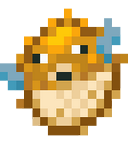
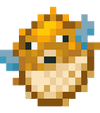
les ennemies avancent, pop quand ils touchent soient le mur soit sonic

diff --git a/main.py b/main.py
@@ -1,8 +1,8 @@
 import pygame
 from pygame.locals import *
 from time import time
-from functions import entity, onFloor, jumpSpeed, jumpPosition, posRestriction
-from random import randint
+from functions import entity, onFloor, jumpSpeed, jumpPosition, posRestriction, enemyRestriction
+from random import randint,uniform
 pygame.init()
 
 #set the window
@@ -23,11 +23,12 @@ sonic3Rect = entity(sonic3Surface.get_rect(topleft=(100,height - 200 - 144)))
 sonic4Surface = pygame.image.load("images/sonic4.gif").convert_alpha()
 sonic4Rect = entity(sonic4Surface.get_rect(topleft=(100,height - 200 - 144)))
 sonicJumpSurface = pygame.image.load("images/sonicJump.png").convert_alpha()
-sonicJumpRect = entity(sonicJumpSurface.get_rect(topleft=(100,height - 200 - 144)))
+sonicJumpRect = entity(sonicJumpSurface.get_rect(topleft=(100,height - 200 - 144*4)))
 sonicState = 0
 #init du delais d'affichage du gif
-delay = time()
+timeGif = time()
 #init du départ du saut
+
 startJump = time()
 #temps de saut
 timeJump = 0.3
@@ -36,6 +37,10 @@ jumping = False
 #rect qui restreint le personnage
 sonicRect = pygame.Rect((100,0), (128,height - 200))
 
+#enemies
+enemySurface = pygame.image.load("images/poisson-globe.png").convert_alpha()
+enemies = []
+timeEnemies = time()
 #score
 scoreTimer = time()
 scoreFont = pygame.font.SysFont("Courier New", 50)
@@ -59,44 +64,68 @@ while playing:
                 if onFloor(sonicJumpRect):
                     startJump = time()
                     jumping = True
-                    jumpSpeed(sonicJumpRect, 1200)
+                    jumpSpeed(sonicJumpRect, (0,1200))
+    delayEnemies = time() - timeEnemies
+    if len(enemies) < 2 and delayEnemies >  uniform(0.9,1.5):
+        randomSpawn = randint(1,6)
+        if randomSpawn == 1:
+            enemies.append(entity(enemySurface.get_rect(topright=(width, height - 200 - 150))))
+        else:
+            enemies.append(entity(enemySurface.get_rect(topright=(width, height - 200))))
+        timeEnemies = time()
+    jumpTime = timer.tick(120) / 1000
     score = int(round((time() - scoreTimer) * 10,0))
-    scoreSurface = scoreFont.render("Score : {0}".format(score), True, (0,0,0))               
+    scoreSurface = scoreFont.render("Score : {0}".format(score), True, (0,0,0))  
     screen.fill((255,255,255))
     screen.blit(endSurface,endRect)
     screen.blit(scoreSurface,scoreRect)
-    jumpTime = timer.tick(120) / 1000
+    for i in range(len(enemies)):
+        try:
+            if enemies[i]['speed'] == (0,0):
+                jumpSpeed(enemies[i],(700,0))
+            jumpPosition(enemies[i], jumpTime)
+            print(sonicJumpRect['rect'])
+            if enemies[i]['rect'].colliderect(sonicJumpRect['rect']):
+                sonic1Rect['hp'] -=1
+                enemies.pop(i)
+            elif enemyRestriction(enemies[i]):
+                enemies.pop(i)
+            screen.blit(enemySurface, enemies[i]['rect'])
+        except:
+            pass
+
     pygame.draw.rect(screen, (0,128,0), (0, height - 200, width, height - 200))
     if time() - startJump < timeJump:
         jumpPosition(sonicJumpRect, jumpTime)
     else:
-        jumpSpeed(sonicJumpRect, -1200)
+        jumpSpeed(sonicJumpRect, (0,-1200))
         startJump = time()
     posRestriction(sonicJumpRect, sonicRect)
-    if sonicJumpRect['speed'] == 0:
+    
+    if sonicJumpRect['speed'][1] == 0:
         jumping = False
     if jumping:
-        sonicJumpRect['speed'] -= 2
+        sonicJumpRect['speed'] = (0,sonicJumpRect['speed'][1] - 12)
         screen.blit(sonicJumpSurface, sonicJumpRect['rect'])
     else:
         #affichage du gif à la main
-        gifDelay = time() - delay
-        if sonicState == 0 and gifDelay > 0.05:
+        delayGif = time() - timeGif
+        if sonicState == 0 and delayGif > 0.05:
             screen.blit(sonic1Surface,sonic1Rect['rect'])
             sonicState = 1
-            delay = time()
-        elif sonicState == 1  and gifDelay > 0.05:
+            timeGif = time()
+        elif sonicState == 1  and delayGif > 0.05:
             screen.blit(sonic2Surface,sonic2Rect['rect'])
             sonicState = 2
-            delay = time()
-        elif sonicState == 2  and gifDelay > 0.05:
+            timeGif = time()
+        elif sonicState == 2  and delayGif > 0.05:
             screen.blit(sonic3Surface,sonic3Rect['rect'])
             sonicState = 3
-            delay = time()
-        elif sonicState == 3 and gifDelay > 0.05:
+            timeGif = time()
+        elif sonicState == 3 and delayGif > 0.05:
             screen.blit(sonic4Surface,sonic4Rect['rect'])
             sonicState = 0
-            delay = time()
+            timeGif = time()
         else:
             choice = randint(1,4)
             if choice == 1:
@@ -111,6 +140,7 @@ while playing:
             else:
                 screen.blit(sonic4Surface,sonic4Rect['rect'])
                 sonicState = 4
+
     pygame.display.flip()
 pygame.quit()
 

diff --git a/functions.py b/functions.py
@@ -8,23 +8,25 @@ width = windowSize[0]
 height = windowSize[1]
 
 def onFloor(entity):
-    #check si position de base de sonic
     return entity['position'][1] == height - 200 - 144
 
 def entity(rect):
     entity={'rect': rect,
-            'speed': 0,
+            'speed': (0,0),
             'position': rect.topleft,
             'hp': 3
             }
     return entity
     
-def jumpSpeed(entity, jump):
-    entity['speed'] += jump
+def jumpSpeed(entity, acceleration):
+    speedX, speedY = entity['speed']
+    aX, aY = acceleration
+    entity['speed'] = (speedX + aX, speedY + aY)
 
 def jumpPosition(entity,time):
-    speedY = entity['speed']
+    speedX, speedY = entity['speed']
     x,y = entity['position']
+    x-= speedX * time
     y-= speedY * time
     entity['position'] = (x,y)
     entity['rect'].bottomleft = entity['position']
@@ -34,8 +36,16 @@ def posRestriction(entity,zone):
     h = entity['rect'].size[1]
     if y + h > zone.bottom:
         y = zone.bottom - h
-        entity['speed'] = 0
+        entity['speed'] = (0,0)
     entity['position'] = (x,y)
     entity['rect'].topleft = entity['position']
+
+def enemyRestriction(entity):
+    x,y = entity['position']
+    w = entity['rect'].size[0]
+    if x + w < 0:
+        return True
+    return False
+    
 
     
